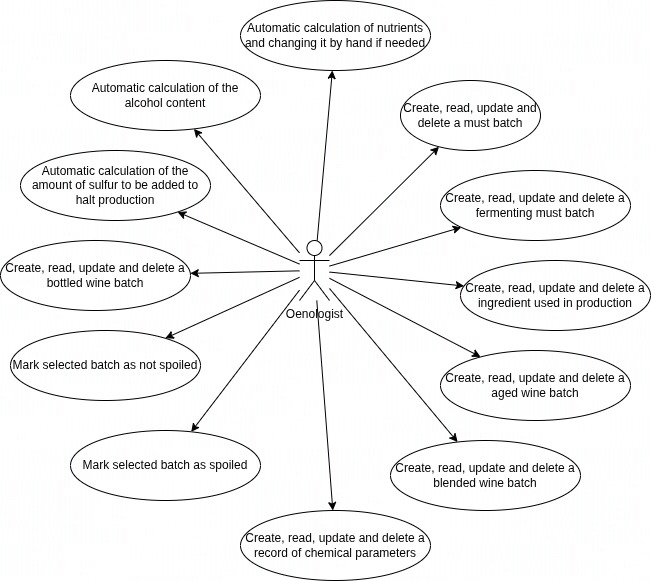
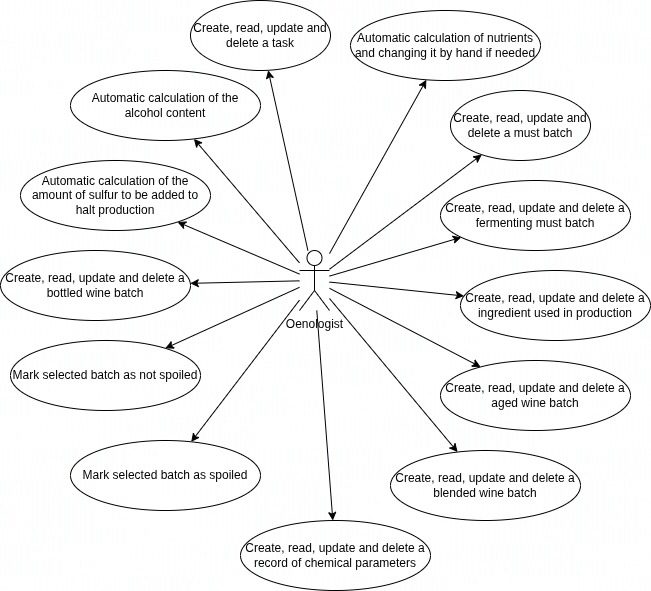
IN-287 Adding tasks for oenologist

diff --git a/docs/subchapters/user_stories.tex b/docs/subchapters/user_stories.tex
@@ -195,6 +195,32 @@ User stories are a collection of features described from the perspective of the 
 
 \begin{enumerate}
 	%===========================================================
+	%TASKS
+	%===========================================================
+	\item As an oenologist I would like to be able to view information about completed and planned tasks in order to be able to know what was done and what still needs to be done. \\Definition of done:
+	\begin{itemize}
+		\item the system displays a list of completed and planned tasks,
+		\item the list can be filtered by completion status,
+		\item for each task, the list shows its name, due date and completion status,
+		\item user can see description of the task when they click on it,
+	\end{itemize}
+	\item As an oenologist I would like to be able to store and edit information about completed and planned tasks in order to be able to view them in the future if needed. \\Definition of done:
+	\begin{itemize}
+		\item there is button to add new task,
+		\item there is a button to edit a task next to each task on the list,
+		\item the form for adding/editing a task includes task name,
+		\item description, due date, equipment used and field on which task is performed are optional,
+	\end{itemize}
+	\item As an oenologist I would like to be able to delete information about completed and planned tasks in order to be able remove tasks that is not relevant anymore. \\Definition of done:
+	\begin{itemize}
+		\item there is a button to delete a task,
+		\item deleting a task requires confirmation,
+	\end{itemize}
+	\item As an oenologist I would like to be able to mark task as completed or not completed for it to disapear or reapear on list of due tasks. \\Definition of done:
+	\begin{itemize}
+		\item on task list there is button to mark task as completed or not completed,
+	\end{itemize}
+	%===========================================================
 	%MUST
 	%===========================================================
 	\item As an oenologist, I can view a list of all batches of must, so I can compare specifications with others.

diff --git a/docs/subchapters/functional_requirements.tex b/docs/subchapters/functional_requirements.tex
@@ -37,6 +37,7 @@ The system shall provide the following functionalities, categorized by users. Th
 \subsubsection{Oenologist:}
 \begin{itemize}
 	\item all of the logged-in abilities,
+	\item the ability to create, read, update and delete a task,
 	\item the ability to create, read, update and delete a batch of must, by manually selecting a specific batch or scanning QR code on one of the pieces of equipment in the winery,
 	\item the ability to create, read, update and delete a batch of fermenting must, by manually selecting a specific batch or scanning QR code on one of the pieces of equipment in the winery,
 	\item the ability to add, read, update and delete ingredients used in production,
